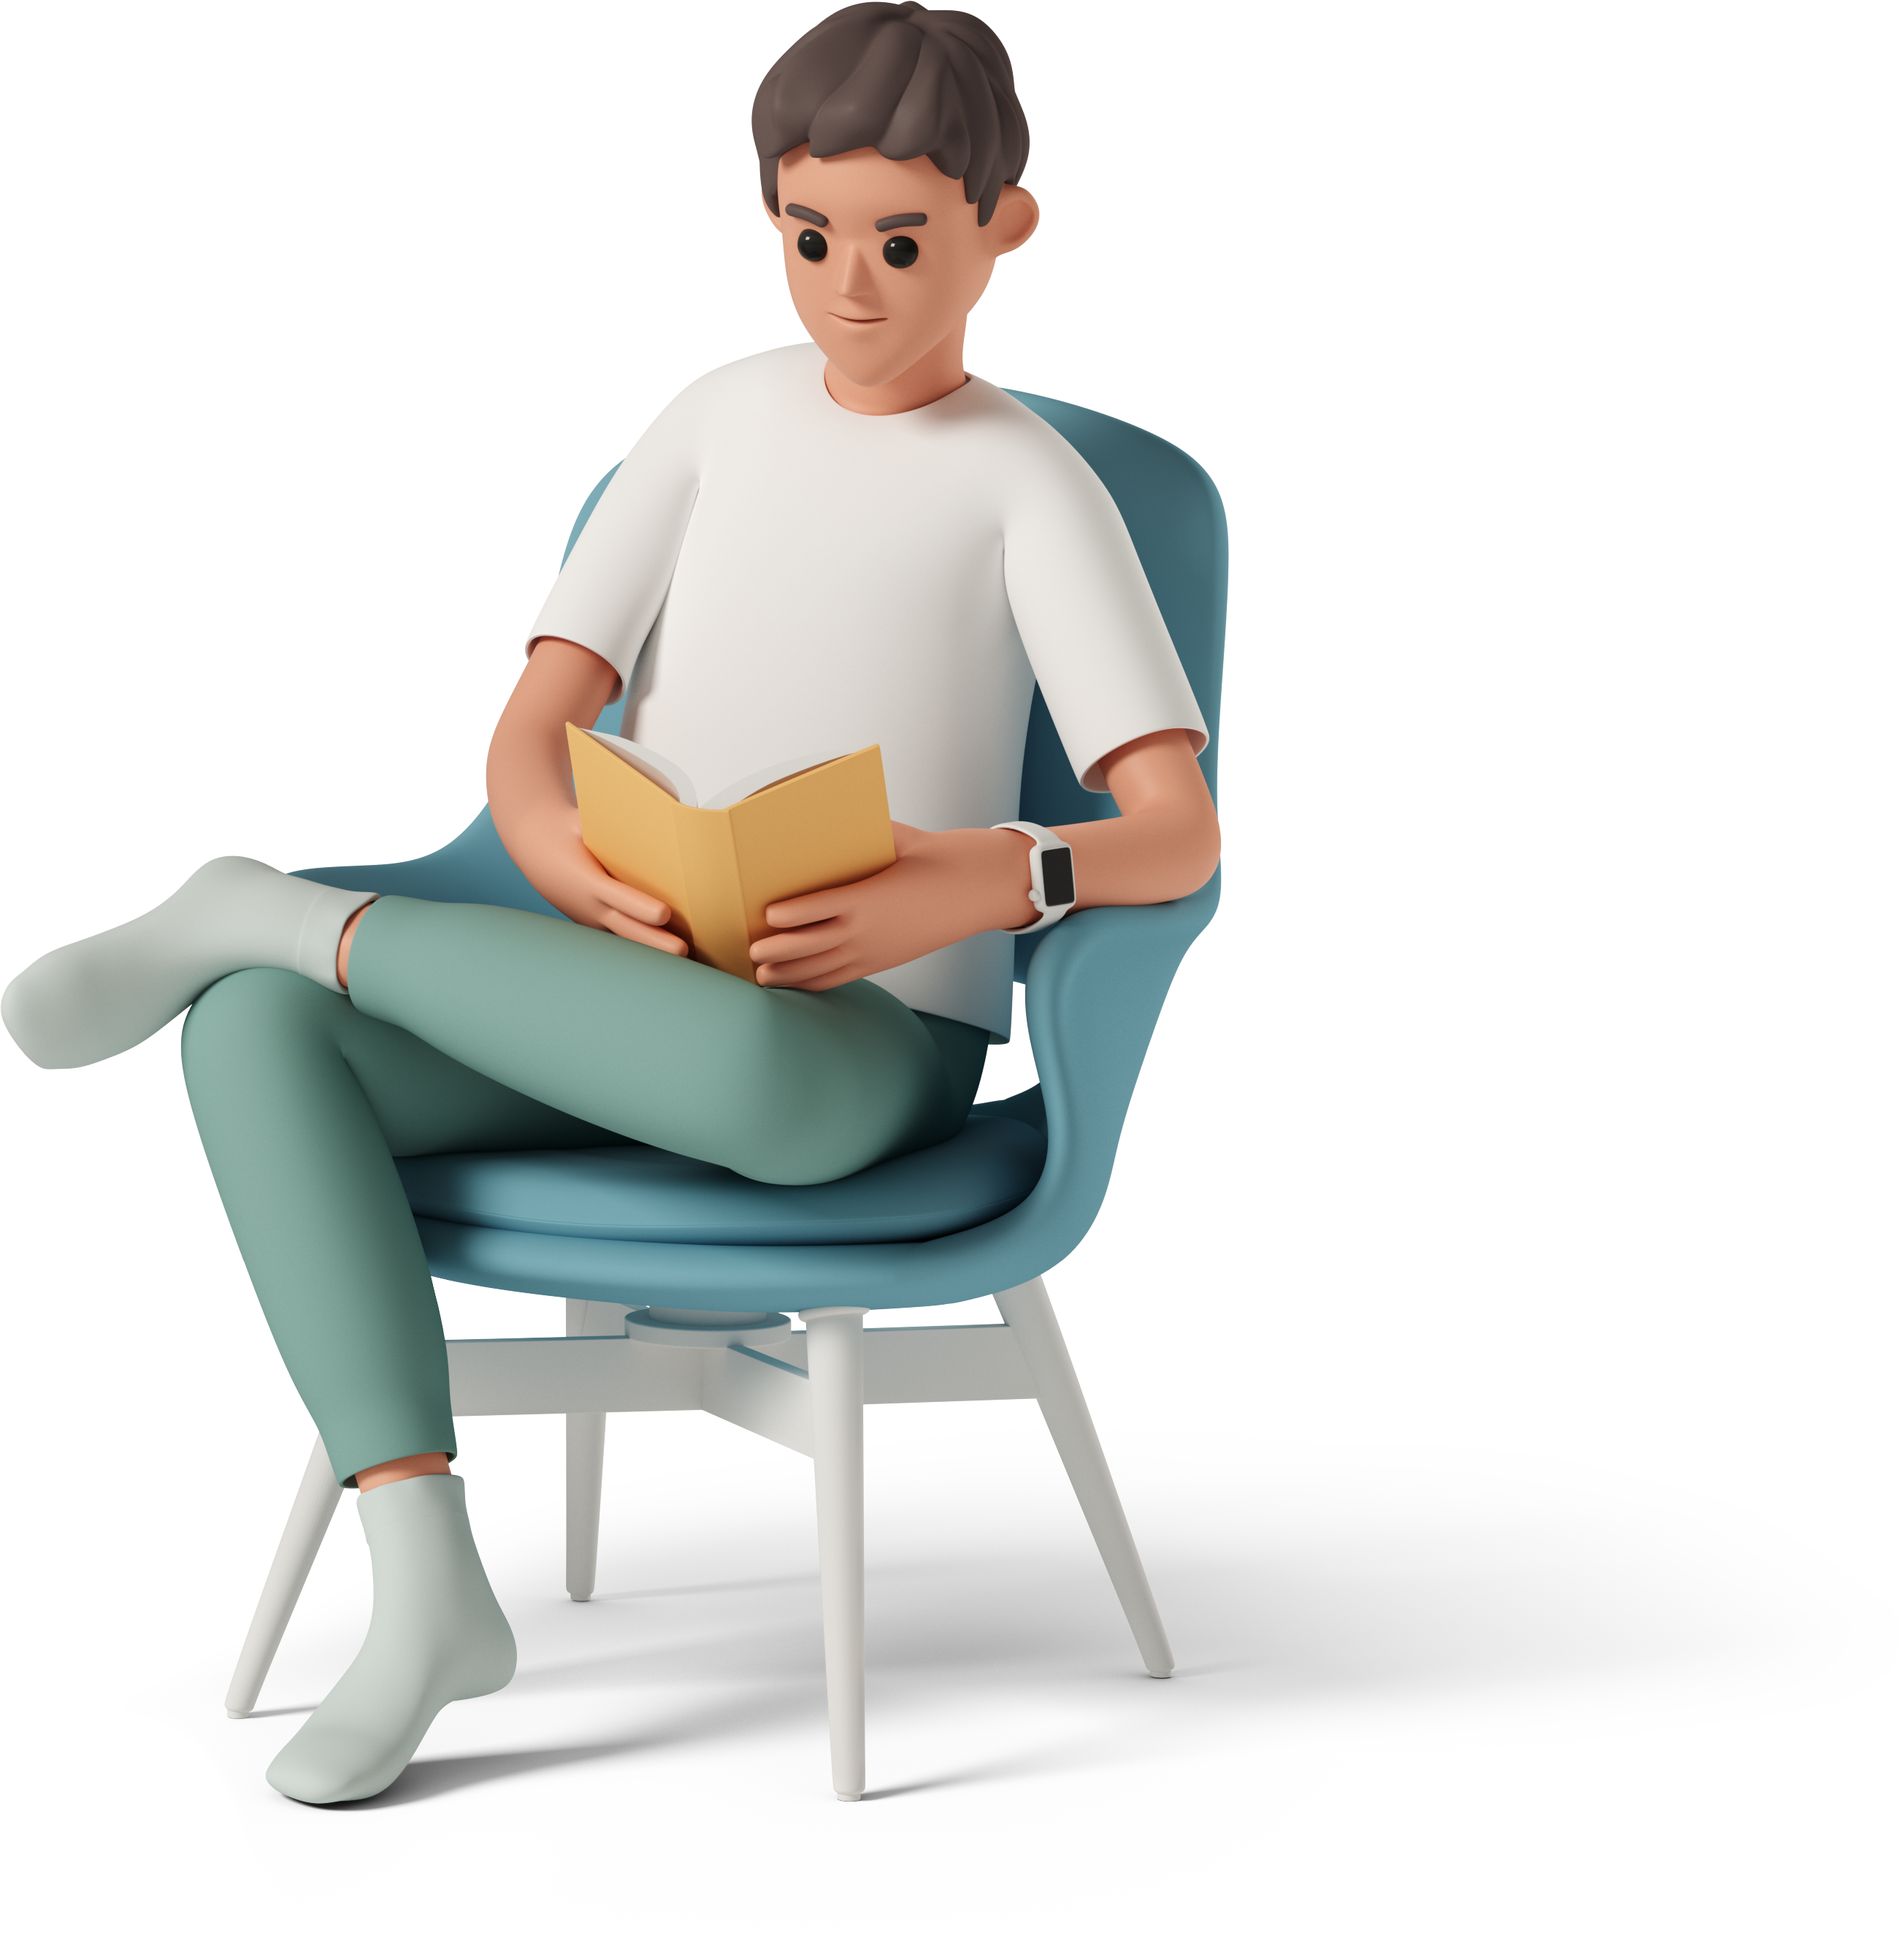
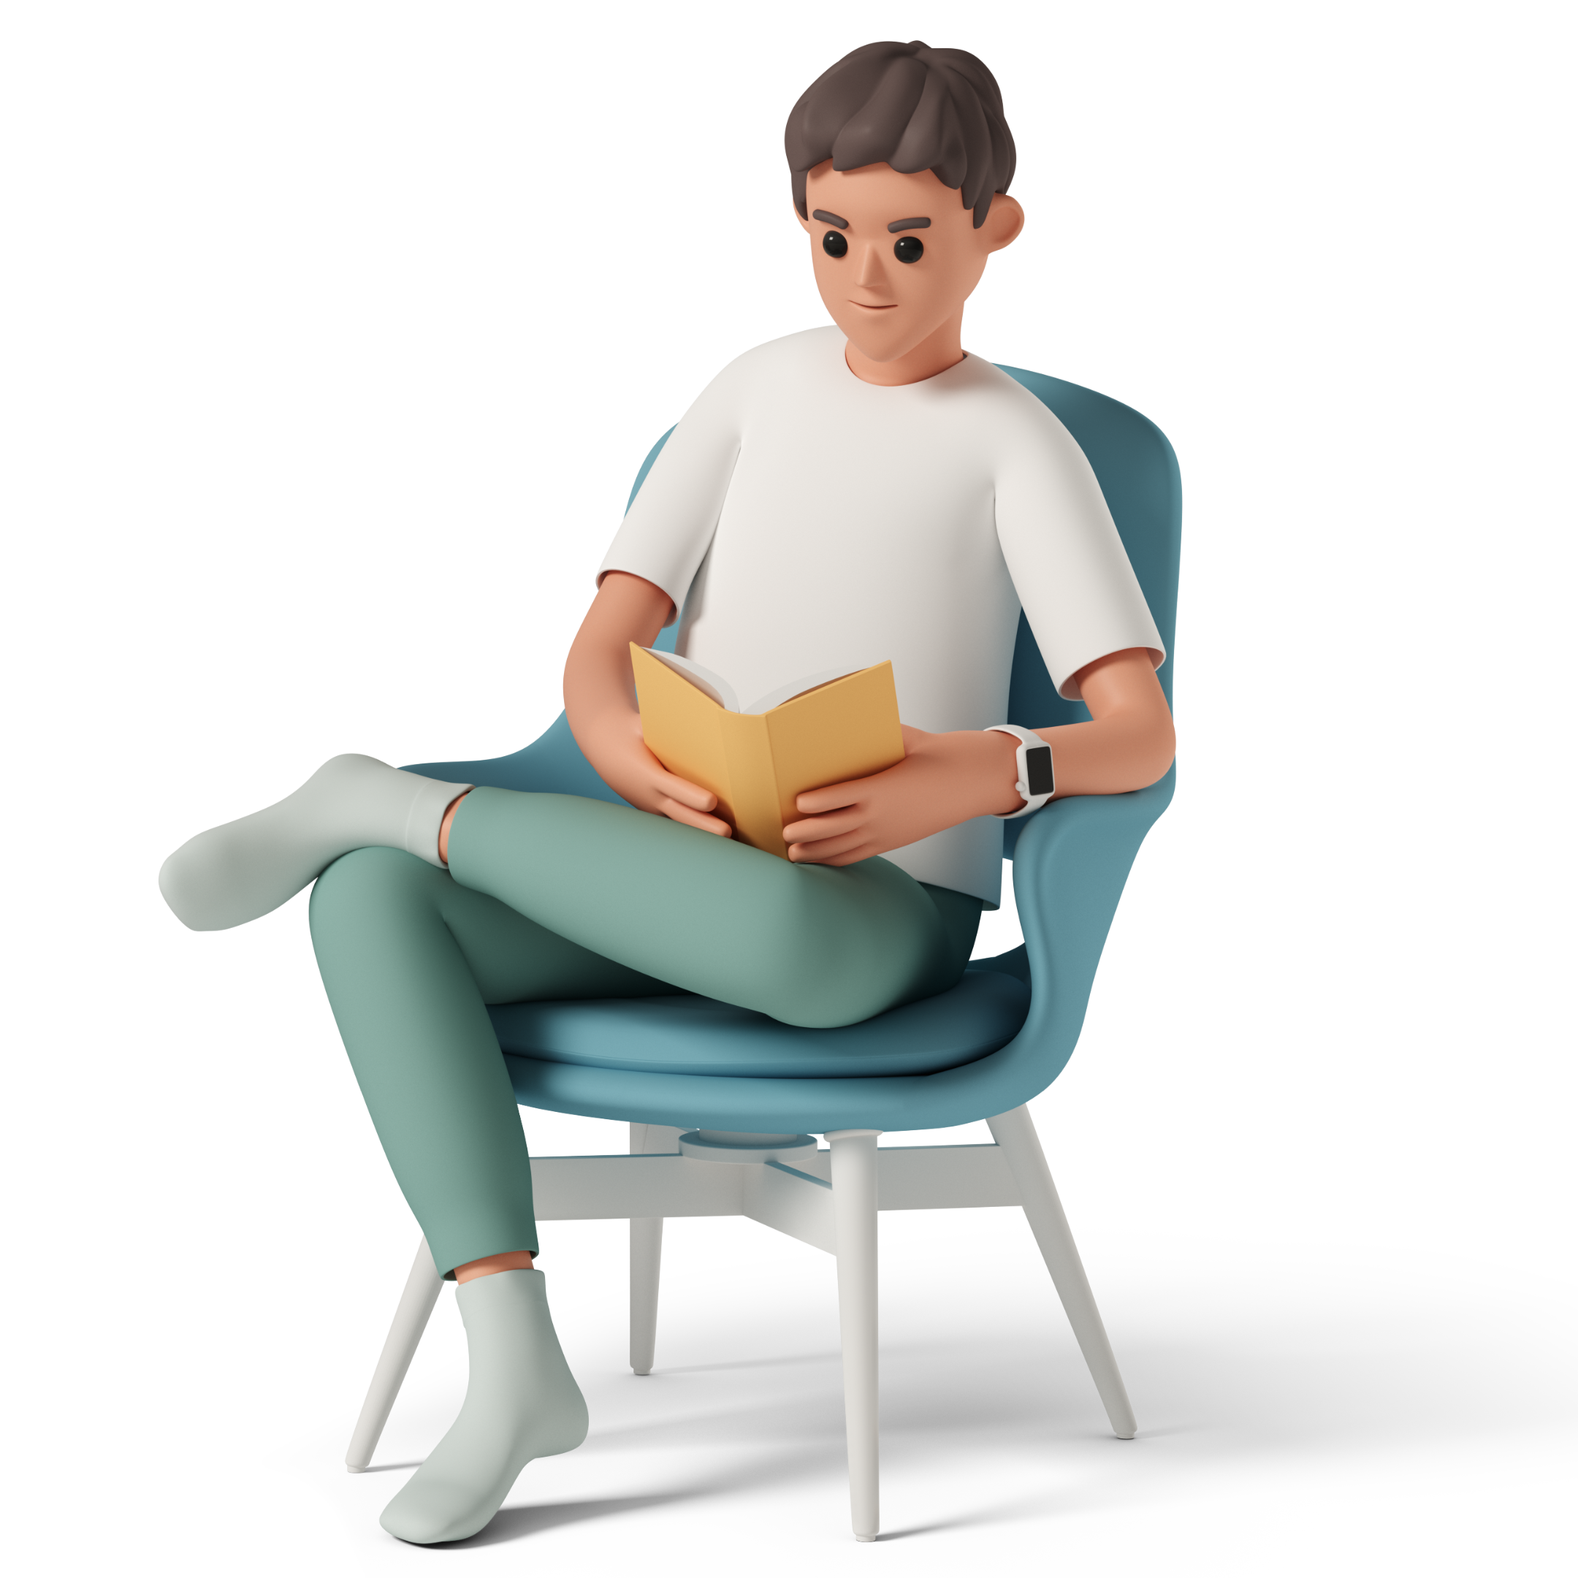
pics

diff --git a/index.html b/index.html
@@ -180,7 +180,7 @@
                         <div class="order-1 order-lg-2 col-lg-5">
                             <div class="thumbnail">
                                 <div class="inner">
-                                    <img src="assets/images/3d/Saly-13.png" alt="Personal Portfolio Images">
+                                    <img src="assets/images/3d/main.png" alt="Personal Portfolio Images">
                                 </div>
                             </div>
                         </div>
@@ -812,14 +812,13 @@
                     <div class="col-lg-5">
                         <div class="contact-about-area">
                             <div class="thumbnail">
-                                <img src="assets/images/3d/Saly-31.png" alt="contact-img">
+                                <img src="assets/images/3d/team.png" alt="contact-img">
                             </div>
                             <div class="title-area">
                                 <h4 class="title">Michał Talaga</h4>
                             </div>
                             <div class="description">
-                                <p>Got a problem to solve? <br>
-                                    I'm here to help you!</p>
+                                <p>You want me on Your team?</p>
 
                                     
                                 </p>

diff --git a/404.html b/404.html
@@ -83,8 +83,7 @@
                                 <div class="thumbnail">
                                     <div class="inner">
                                         <img src="assets/images/3d/404.png"
-                                            alt="Personal Portfolio Images"
-                                            style="width: 90%;">
+                                            alt="Personal Portfolio Images">
                                     </div>
                                 </div>
                             </div>
